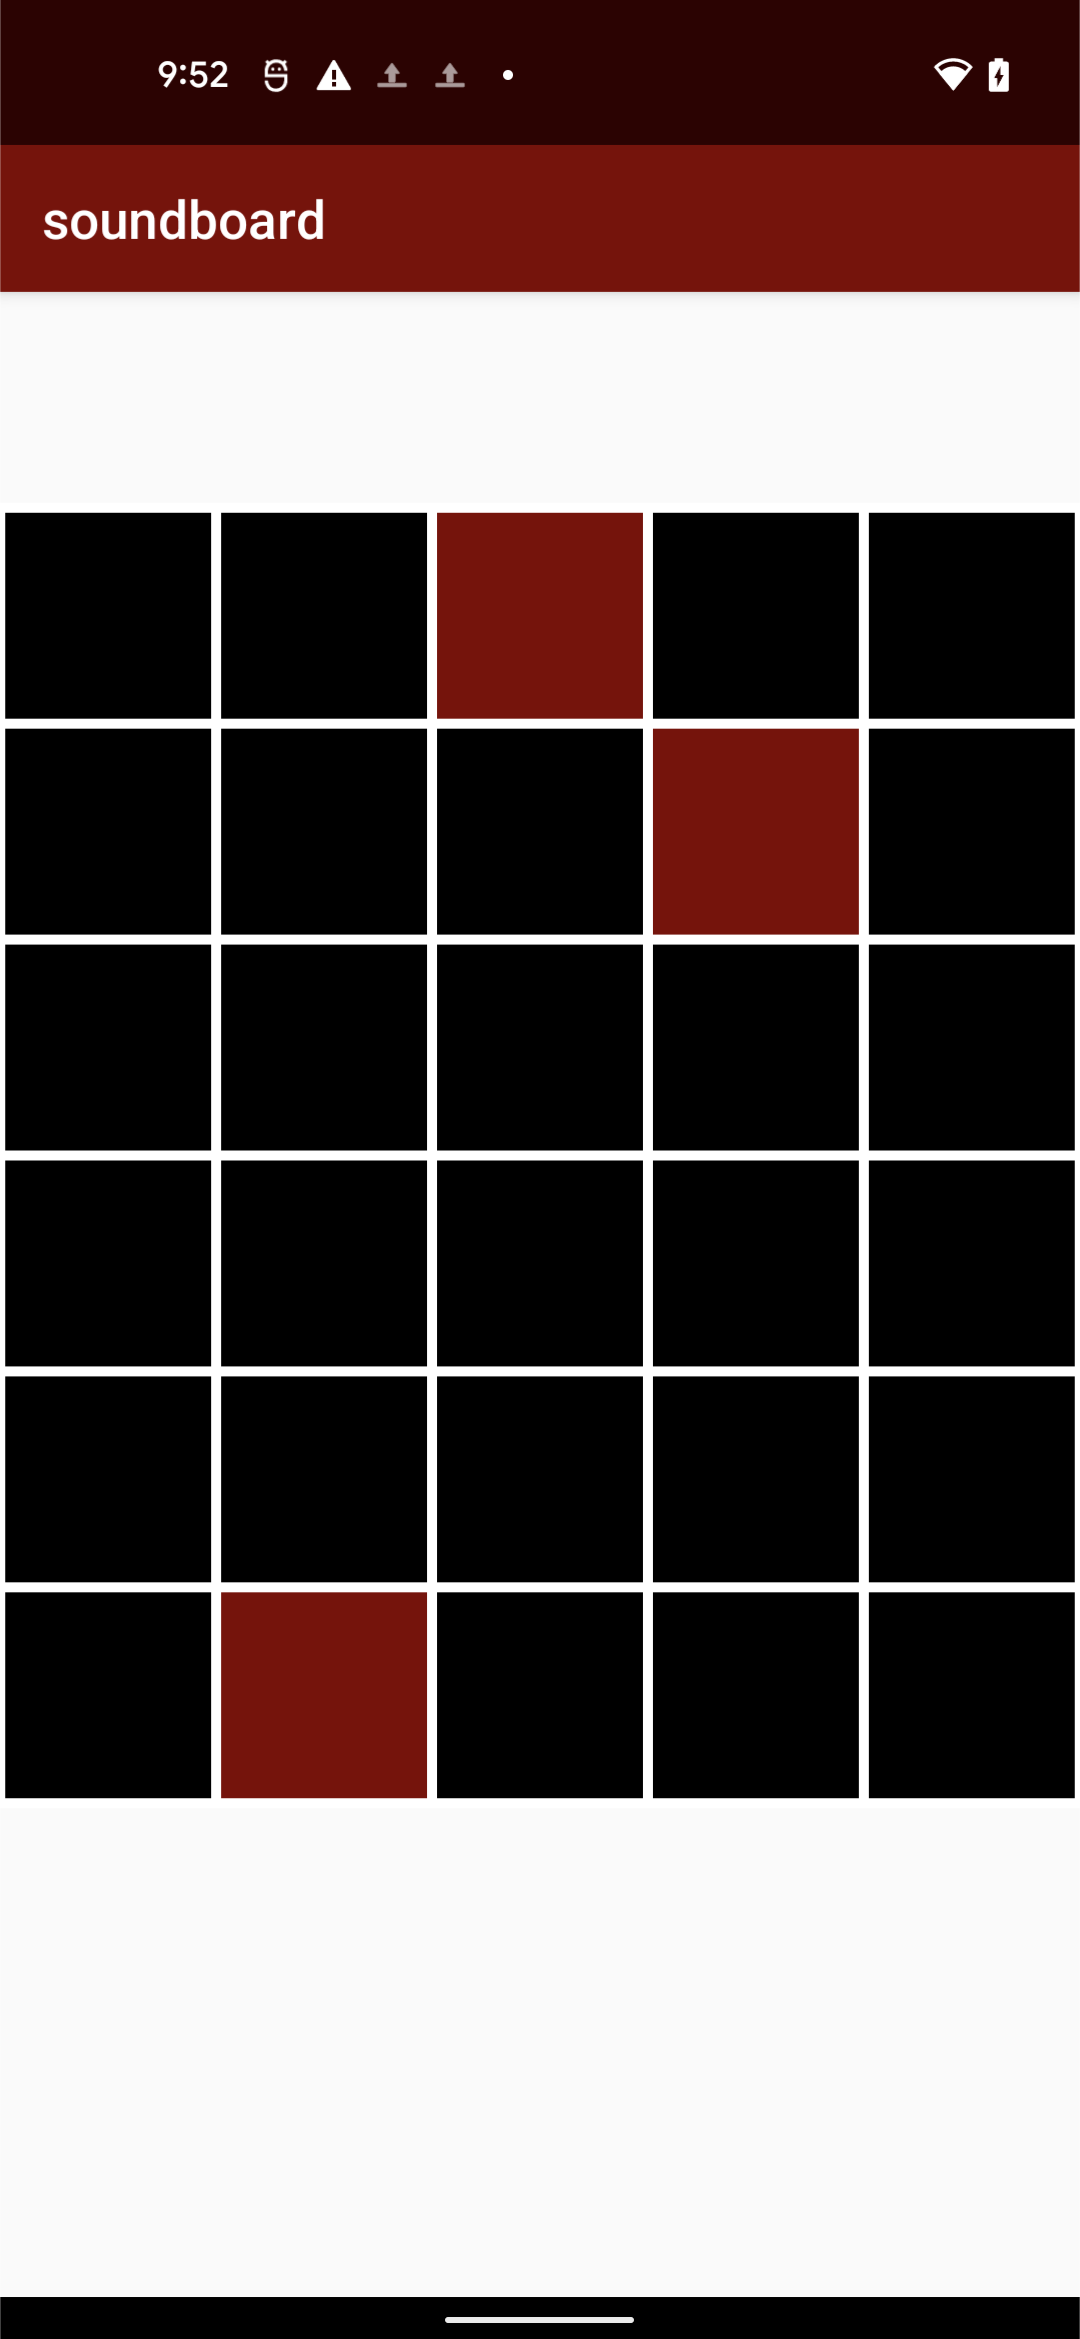
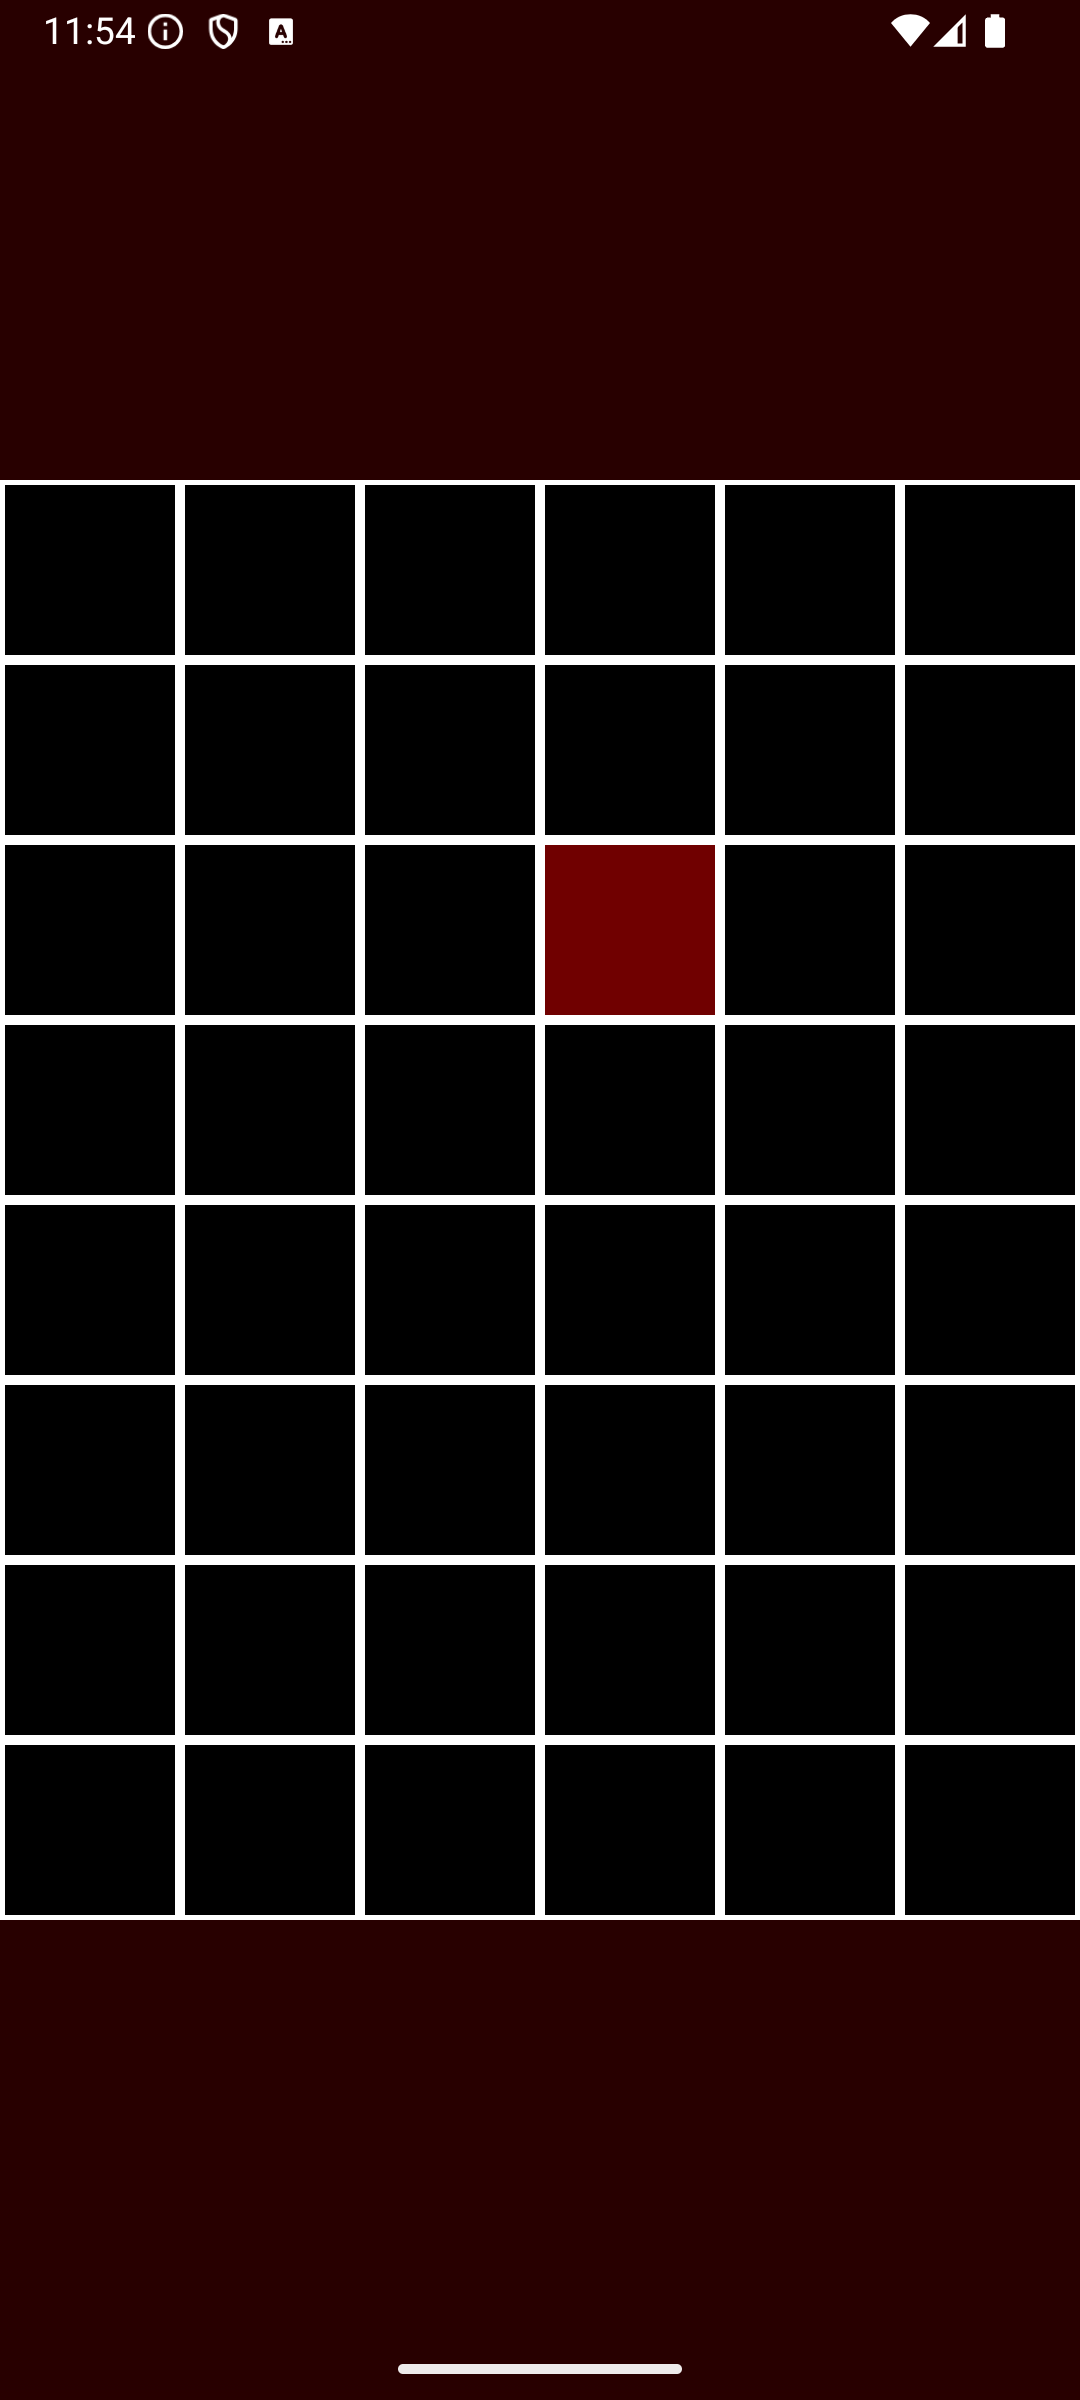
SoundBoard: Update UI to a more modern look

diff --git a/samples/SoundBoard/src/main/kotlin/com/google/oboe/samples/soundboard/MusicTileView.kt b/samples/SoundBoard/src/main/kotlin/com/google/oboe/samples/soundboard/MusicTileView.kt
@@ -22,14 +22,16 @@ import android.graphics.*
 import android.util.SparseArray
 import android.view.MotionEvent
 import android.view.View
+import androidx.core.content.ContextCompat
 
 class MusicTileView(
     context: Context?,
-    private val mRectangles: ArrayList<Rect>,
+    private val mTiles: ArrayList<Rect>,
+    private val mBorders: ArrayList<Rect>,
     tileListener: TileListener,
     configChangeListener: ConfigChangeListener
 ) : View(context) {
-    private val mIsPressedPerRectangle: BooleanArray = BooleanArray(mRectangles.size)
+    private val mIsPressedPerRectangle: BooleanArray = BooleanArray(mTiles.size)
     private val mPaint: Paint = Paint()
     private val mLocationsOfFingers: SparseArray<PointF> = SparseArray()
     private val mTileListener: TileListener
@@ -45,8 +47,8 @@ class MusicTileView(
     }
 
     private fun getIndexFromLocation(pointF: PointF): Int {
-        for (i in mRectangles.indices) {
-            if (pointF.x > mRectangles[i].left && pointF.x < mRectangles[i].right && pointF.y > mRectangles[i].top && pointF.y < mRectangles[i].bottom) {
+        for (i in mTiles.indices) {
+            if (pointF.x > mTiles[i].left && pointF.x < mTiles[i].right && pointF.y > mTiles[i].top && pointF.y < mTiles[i].bottom) {
                 return i
             }
         }
@@ -54,20 +56,25 @@ class MusicTileView(
     }
 
     override fun onDraw(canvas: Canvas) {
-        for (i in mRectangles.indices) {
+        for (i in mTiles.indices) {
             mPaint.style = Paint.Style.FILL
             if (mIsPressedPerRectangle[i]) {
-                mPaint.color = Color.rgb(128, 0, 0)
+                mPaint.color = ContextCompat.getColor(context, R.color.colorPrimary)
             } else {
                 mPaint.color = Color.BLACK
             }
-            canvas.drawRect(mRectangles[i], mPaint)
+            canvas.drawRect(mTiles[i], mPaint)
 
-            // border
+            // white border
             mPaint.style = Paint.Style.STROKE
             mPaint.strokeWidth = 10f
             mPaint.color = Color.WHITE
-            canvas.drawRect(mRectangles[i], mPaint)
+            canvas.drawRect(mTiles[i], mPaint)
+        }
+        for (i in mBorders.indices) {
+            mPaint.style = Paint.Style.FILL
+            mPaint.color = ContextCompat.getColor(context, R.color.colorPrimaryDark)
+            canvas.drawRect(mBorders[i], mPaint)
         }
     }
 
@@ -82,7 +89,7 @@ class MusicTileView(
                 // Create an array to check for finger changes as multiple fingers may be on the
                 // same tile. This two-pass algorithm records the overall difference before changing
                 // the actual tiles.
-                val notesChangedBy = IntArray(mRectangles.size)
+                val notesChangedBy = IntArray(mTiles.size)
                 run {
                     val size = event.pointerCount
                     var i = 0
@@ -108,7 +115,7 @@ class MusicTileView(
 
                 // Now go through the rectangles to see if they have changed
                 var i = 0
-                while (i < mRectangles.size) {
+                while (i < mTiles.size) {
                     if (notesChangedBy[i] > 0) {
                         mIsPressedPerRectangle[i] = true
                         mTileListener.onTileOn(i)

diff --git a/samples/SoundBoard/src/main/kotlin/com/google/oboe/samples/soundboard/MainActivity.kt b/samples/SoundBoard/src/main/kotlin/com/google/oboe/samples/soundboard/MainActivity.kt
@@ -38,7 +38,8 @@ class MainActivity : AppCompatActivity() {
         private const val DIMENSION_MAX_SIZE = 8
         private var mNumColumns : Int = 0;
         private var mNumRows : Int = 0;
-        private var mRectangles = ArrayList<Rect>()
+        private var mTiles = ArrayList<Rect>()
+        private var mBorders = ArrayList<Rect>()
 
         private var mEngineHandle: Long = 0
 
@@ -103,8 +104,9 @@ class MainActivity : AppCompatActivity() {
         }
         val tileLength = min(height / mNumRows, width / mNumColumns)
         val xStartLocation = (width - tileLength * mNumColumns) / 2
-        val yStartLocation = 0
-        mRectangles = ArrayList<Rect>()
+        val yStartLocation = (height - tileLength * mNumRows) / 2
+
+        mTiles = ArrayList<Rect>()
         for (i in 0 until mNumRows) {
             for (j in 0 until mNumColumns) {
                 val rectangle = Rect(
@@ -113,13 +115,23 @@ class MainActivity : AppCompatActivity() {
                     xStartLocation + j * tileLength + tileLength,
                     yStartLocation + i * tileLength + tileLength
                 )
-                mRectangles.add(rectangle)
+                mTiles.add(rectangle)
             }
         }
+
+        mBorders = ArrayList<Rect>()
+        // Top border
+        mBorders.add(Rect(0, 0, width, yStartLocation))
+        // Bottom border
+        mBorders.add(Rect(0, yStartLocation + tileLength * mNumRows, width, height))
+        // Left border
+        mBorders.add(Rect(0, 0, xStartLocation, height))
+        // Right border
+        mBorders.add(Rect(xStartLocation + tileLength * mNumColumns, 0, width, height))
     }
 
     private fun createMusicTiles(context: Context) {
-        setContentView(MusicTileView(this, mRectangles, NoteListener(mEngineHandle),
+        setContentView(MusicTileView(this, mTiles, mBorders, NoteListener(mEngineHandle),
                 ScreenChangeListener { setup() }))
     }
 
